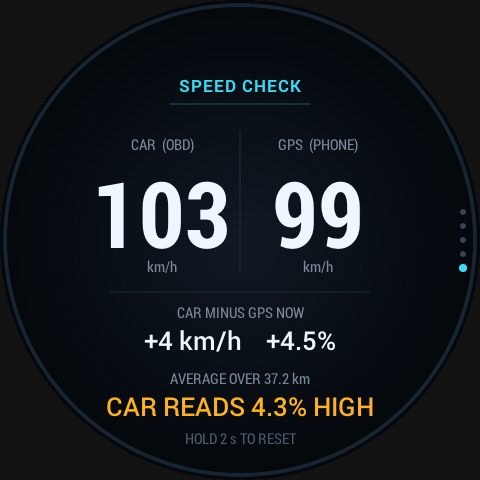
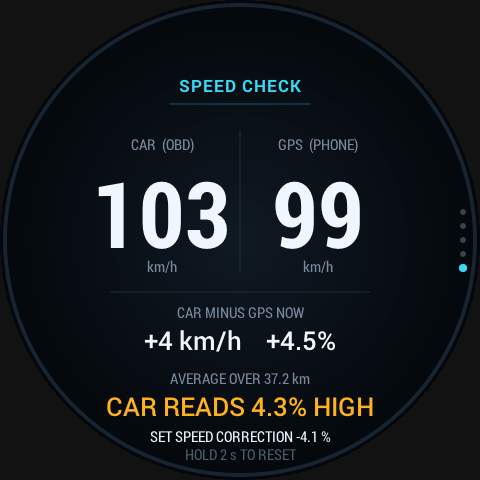
Add a car speed correction, set from the phone app
The car's OBD speed read 8 % off GPS (tyre size / speedometer error).
speed_correction (%, -20..20) multiplies it everywhere it is used: speed
screen, trip, max, fuel use per 100 km and the car side of the speed check.
The speed check keeps averaging the uncorrected speed, so it can show the
exact value to enter ("SET SPEED CORRECTION +8.7 %") whatever is set now.
The app's Device Settings get a Car Speed field for it.

Changed region(s): [[0.3125, 0.875, 0.6875, 0.9688]]

diff --git a/ios/InclinoLink/DeviceSettingsView.swift b/ios/InclinoLink/DeviceSettingsView.swift
@@ -113,6 +113,10 @@ private struct SettingsForm: View {
                 }
             }
 
+            if config.has(Key.speedCorrection) {
+                SpeedCorrectionSection(percent: config.number(Key.speedCorrection) ?? 0)
+            }
+
             if config.has(Key.log) {
                 DriveLogSection(enabled: bool(Key.log), interval: number(Key.logInterval, 1))
             }
@@ -293,6 +297,59 @@ private struct SensorSection: View {
         let sign = axis.hasPrefix("-") ? "−" : "+"
         let name = axis.dropFirst().uppercased()
         return axis == "+x" ? "\(sign)\(name) (board arrow)" : "\(sign)\(name)"
+    }
+}
+
+// MARK: - Speed correction
+
+/// Car (OBD) speed correction in %, typed in: the speed check screen on the device shows the value
+/// to enter ("SET SPEED CORRECTION +8.7 %").
+private struct SpeedCorrectionSection: View {
+    @EnvironmentObject private var link: LinkManager
+    let percent: Double
+
+    @State private var draft = ""
+    @FocusState private var editing: Bool
+    static let range = -20.0...20.0
+
+    var body: some View {
+        Section {
+            LabeledContent {
+                HStack(spacing: 4) {
+                    TextField("0", text: $draft)
+                        .multilineTextAlignment(.trailing)
+                        .keyboardType(.numbersAndPunctuation)   // has the minus sign, unlike the decimal pad
+                        .submitLabel(.done)
+                        .focused($editing)
+                        .onSubmit(commit)
+                        .monospacedDigit()
+                    Text("%").foregroundStyle(.secondary)
+                }
+            } label: {
+                Label("Speed Correction", systemImage: "speedometer")
+            }
+        } header: {
+            Text("Car Speed")
+        } footer: {
+            Text("Corrects the speed read from the car (wrong tyre size, speedometer error): +8 % makes it 8 % higher. Drive a few km above 20 km/h with the phone connected, then enter the value the inclinometer's speed check screen suggests.")
+        }
+        .onAppear { draft = Self.text(percent) }
+        .onChange(of: percent) { _, new in if !editing { draft = Self.text(new) } }
+        .onChange(of: editing) { _, isEditing in if !isEditing { commit() } }
+    }
+
+    private static func text(_ v: Double) -> String { v == 0 ? "" : String(format: "%+.1f", v) }
+
+    private func commit() {
+        // accept "8.7", "+8,7", "-3" (comma or point, whatever the keyboard gave)
+        let t = draft.trimmingCharacters(in: .whitespaces).replacingOccurrences(of: ",", with: ".")
+        guard let v = t.isEmpty ? 0 : Double(t.replacingOccurrences(of: "+", with: "")) else {
+            draft = Self.text(percent)   // not a number: show the device's value again
+            return
+        }
+        let clamped = (min(max(v, Self.range.lowerBound), Self.range.upperBound) * 10).rounded() / 10
+        draft = Self.text(clamped)
+        if clamped != percent { link.setConfig(DeviceConfig.Key.speedCorrection, DeviceConfig.format(clamped)) }
     }
 }
 

diff --git a/ios/InclinoLink/DeviceConfig.swift b/ios/InclinoLink/DeviceConfig.swift
@@ -45,6 +45,7 @@ struct DeviceConfig: Equatable {
         static let log = "log", logInterval = "log_interval"
         static let obdName = "obd_name", obdProbe = "obd_probe"
         static let remoteForward = "remote_forward", redline = "redline"
+        static let speedCorrection = "speed_correction"
     }
 
     /// Value text the firmware parses (atof): whole numbers without a decimal point.

diff --git a/src/main.cpp b/src/main.cpp
@@ -223,9 +223,11 @@ static void sensorTask(void*) {
       if (obdSpeed) sh.nav = NAV_OBD;
       else if (!blelink::connected()) sh.nav = NAV_NO_PHONE;
       else sh.nav = fresh && f.speedValid ? NAV_LIVE : NAV_NO_FIX;
+      // the car's speed, corrected (speedometer / tyre size error, measured on the speed check screen)
+      const float carKmh = od.speedKmh * (1.f + cfg.speedCorrPct * 0.01f);
       if (sh.nav == NAV_OBD) {
-        // the car's own speed: whole km/h, no GPS jitter, works in tunnels
-        float kmh = od.speedKmh;
+        // the car's own speed: no GPS jitter, works in tunnels
+        float kmh = carKmh;
         sh.speedKmh = kmh;
         sh.tripKm += kmh * navDt / 3600.f;
         if (kmh > sh.maxKmh) sh.maxKmh = kmh;
@@ -242,11 +244,12 @@ static void sensorTask(void*) {
       // speed comparison (car vs GPS)
       {
         bool gpsOk = blelink::connected() && fresh && f.speedValid;
-        sh.obdKmh = obdSpeed ? od.speedKmh : -1;
+        sh.obdKmh = obdSpeed ? carKmh : -1;
         sh.gpsKmh = gpsOk ? (f.speedMs * 3.6f < TRIP_MIN_KMH ? 0 : f.speedMs * 3.6f) : -1;
         bool accurate = f.speedAccMs >= 0 && f.speedAccMs * 3.6f < MAX_SPEED_ACC_KMH;
         if (obdSpeed && gpsOk && accurate && od.speedKmh >= CMP_MIN_KMH) {
-          // distances, not instant ratios: GPS lags ~1 s, which averages out over a drive
+          // distances, not instant ratios: GPS lags ~1 s, which averages out over a drive.
+          // Uncorrected, so the suggested correction doesn't depend on the one set now.
           sh.cmpObdKm += od.speedKmh * navDt / 3600.f;
           sh.cmpGpsKm += f.speedMs * 3.6f * navDt / 3600.f;
         }
@@ -269,13 +272,13 @@ static void sensorTask(void*) {
           float x = od.rpm > 0 ? od.mafGs * 3600.f / (FUEL_AFR * FUEL_G_PER_L) : 0;
           lph = lph < 0 ? x : lph + (x - lph) * fminf(1.f, navDt / FUEL_SMOOTH_S);
           sh.fuelL += x * navDt / 3600.f;
-          if (obdSpeed) sh.fuelKm += od.speedKmh * navDt / 3600.f;
+          if (obdSpeed) sh.fuelKm += carKmh * navDt / 3600.f;
         } else {
           lph = -1;
         }
         sh.fuelLph = lph >= 0 ? lph : -999;
         static float kmhS = 0;   // smoothed like the fuel flow, so the ratio is steady
-        kmhS = obdSpeed ? kmhS + (od.speedKmh - kmhS) * fminf(1.f, navDt / FUEL_SMOOTH_S) : 0;
+        kmhS = obdSpeed ? kmhS + (carKmh - kmhS) * fminf(1.f, navDt / FUEL_SMOOTH_S) : 0;
         sh.fuelL100 = lph >= 0 && obdSpeed && kmhS >= 5 ? lph / kmhS * 100.f : -999;
       }
 
@@ -428,7 +431,13 @@ static void renderTask(void*) {
     st.avgL100 = sh.fuelKm >= 1.f ? sh.fuelL / sh.fuelKm * 100.f : -999;
     st.obdKmh = sh.obdKmh; st.gpsKmh = sh.gpsKmh;
     st.cmpKm = sh.cmpGpsKm;
-    st.cmpPct = sh.cmpGpsKm >= 0.5f ? (sh.cmpObdKm / sh.cmpGpsKm - 1.f) * 100.f : -999;
+    {
+      const float corr = 1.f + cfg.speedCorrPct * 0.01f;
+      const bool enough = sh.cmpGpsKm >= 0.5f && sh.cmpObdKm > 0.1f;
+      st.cmpPct = enough ? (sh.cmpObdKm * corr / sh.cmpGpsKm - 1.f) * 100.f : -999;   // with the correction
+      st.cmpSuggestPct = enough ? (sh.cmpGpsKm / sh.cmpObdKm - 1.f) * 100.f : -999;
+      st.speedCorrPct = cfg.speedCorrPct;
+    }
     // heading: ease along the shortest way round, so the compass ring turns smoothly
     if (sh.courseDeg < 0) st.courseDeg = -1;
     else if (st.courseDeg < 0) st.courseDeg = sh.courseDeg;

diff --git a/src/settings.cpp b/src/settings.cpp
@@ -3,6 +3,7 @@
 #include <stdio.h>
 #include <stdlib.h>
 #include <string.h>
+#include <math.h>
 
 Settings cfg;
 
@@ -64,6 +65,7 @@ static void applyOne(const char* k, const char* v, void* p) {
     if (ax == 'x' || ax == 'y' || ax == 'z') { s.remoteForward[0] = sg; s.remoteForward[1] = ax; s.remoteForward[2] = 0; }
   } else if (!strcmp(k, "redline")) s.redlineRpm = clampf(f, 2000, ENGINE_GAUGE_RPM);
   else if (!strcmp(k, "obd_probe")) s.obdProbe = f != 0;
+  else if (!strcmp(k, "speed_correction")) s.speedCorrPct = clampf(roundf(f * 10) / 10, -20, 20);
   else {
     if (c.unknown) c.unknown(k);
     return;
@@ -102,10 +104,11 @@ bool update(const char* text) {
 size_t formatCompact(char* out, size_t size) {
   int n = snprintf(out, size,
       "roll_warn=%g\nroll_danger=%g\npitch_warn=%g\npitch_danger=%g\nbuzzer=%d\nbacklight=%u\n"
-      "log=%d\nlog_interval=%g\nobd_name=%s\nremote_forward=%s\nredline=%g\nobd_probe=%d\n",
+      "log=%d\nlog_interval=%g\nobd_name=%s\nremote_forward=%s\nredline=%g\nobd_probe=%d\n"
+      "speed_correction=%g\n",
       cfg.rollWarnDeg, cfg.rollDangerDeg, cfg.pitchWarnDeg, cfg.pitchDangerDeg, cfg.buzzer ? 1 : 0,
       (unsigned)cfg.backlight, cfg.log ? 1 : 0, cfg.logIntervalS, cfg.obdName, cfg.remoteForward,
-      cfg.redlineRpm, cfg.obdProbe ? 1 : 0);
+      cfg.redlineRpm, cfg.obdProbe ? 1 : 0, cfg.speedCorrPct);
   return n < 0 ? 0 : (size_t)n < size ? (size_t)n : size - 1;
 }
 
@@ -143,10 +146,14 @@ size_t format(char* out, size_t size) {
       "\n"
       "# 1 = also read the car's maker-specific data blocks and log them to probe.txt\n"
       "# (slows the normal OBD values a little)\n"
-      "obd_probe = %d\n",
+      "obd_probe = %d\n"
+      "\n"
+      "# Car (OBD) speed correction, %%: the car's speed is multiplied by 1 + this / 100.\n"
+      "# +8 = the car shows 8 %% too little. The speed check screen suggests a value.\n"
+      "speed_correction = %g\n",
       cfg.rollWarnDeg, cfg.rollDangerDeg, cfg.pitchWarnDeg, cfg.pitchDangerDeg, cfg.buzzer ? 1 : 0,
       (unsigned)cfg.backlight, cfg.log ? 1 : 0, cfg.logIntervalS, cfg.obdName, cfg.remoteForward,
-      cfg.redlineRpm, cfg.obdProbe ? 1 : 0);
+      cfg.redlineRpm, cfg.obdProbe ? 1 : 0, cfg.speedCorrPct);
   return n < 0 ? 0 : (size_t)n;
 }
 

diff --git a/src/ui.cpp b/src/ui.cpp
@@ -630,7 +630,9 @@ static void renderCompare(const UiState& s) {
   gfx.line(110, 292, 370, 292, 1.2f, Paint(FAINT));
 
   const float col[2] = {162, 318};
-  const char* label[2] = {"CAR  (OBD)", "GPS  (PHONE)"};
+  char carLabel[28] = "CAR  (OBD)";
+  if (fabsf(s.speedCorrPct) >= 0.05f) snprintf(carLabel, sizeof carLabel, "CAR  (OBD %+.1f%%)", s.speedCorrPct);
+  const char* label[2] = {carLabel, "GPS  (PHONE)"};
   const float v[2] = {s.obdKmh, s.gpsKmh};
   for (int i = 0; i < 2; i++) {
     gfx.text(font_tiny, label[i], col[i], 150, DIM, 0);
@@ -662,7 +664,13 @@ static void renderCompare(const UiState& s) {
     if (fabsf(p) < 0.5f) snprintf(b, sizeof b, "CAR READS RIGHT");
     else snprintf(b, sizeof b, "CAR READS %.1f%% %s", fabsf(p), p > 0 ? "HIGH" : "LOW");
     gfx.text(font_med, b, CX, 416, fabsf(p) < 2.f ? GREEN : AMBER, 0);
-    gfx.text(font_tiny, "HOLD 2 s TO RESET", CX, 444, 0x4E5D6B, 0);
+    if (fabsf(p) >= 0.5f && s.cmpSuggestPct > -900) {   // the value to enter in the phone app
+      snprintf(b, sizeof b, "SET SPEED CORRECTION %+.1f %%", s.cmpSuggestPct);
+      gfx.text(font_tiny, b, CX, 442, TXT, 0);
+      gfx.text(font_tiny, "HOLD 2 s TO RESET", CX, 460, 0x4E5D6B, 0);
+    } else {
+      gfx.text(font_tiny, "HOLD 2 s TO RESET", CX, 444, 0x4E5D6B, 0);
+    }
   } else {
     gfx.text(font_tiny, "AVERAGE", CX, 384, DIM, 0);
     snprintf(b, sizeof b, "needs both above %d km/h", (int)CMP_MIN_KMH);

diff --git a/src/ui.h b/src/ui.h
@@ -40,7 +40,9 @@ struct UiState {
   // speed comparison screen; < 0 = no fresh data
   float obdKmh = -1, gpsKmh = -1;
   float cmpKm = 0;                      // distance compared so far (both sources live, moving)
-  float cmpPct = -999;                  // car vs GPS over that distance, % (+ = car reads high)
+  float cmpPct = -999;                  // corrected car vs GPS over that distance, % (+ = car reads high)
+  float cmpSuggestPct = -999;           // speed_correction that would make it 0
+  float speedCorrPct = 0;               // speed_correction now
   // boot splash (when splash1 != nullptr)
   const char* splash1 = nullptr;
   const char* splash2 = nullptr;

diff --git a/tools/preview/preview.cpp b/tools/preview/preview.cpp
@@ -62,7 +62,7 @@ int main(int argc, char** argv) {
     {"compare",       mk(SCREEN_COMPARE, 0.f, 0.f)},
     {"compare_start", mk(SCREEN_COMPARE, 0.f, 0.f)},
   };
-  shots[16].s.obdKmh = 103; shots[16].s.gpsKmh = 98.6f; shots[16].s.cmpKm = 37.2f; shots[16].s.cmpPct = 4.3f;
+  shots[16].s.obdKmh = 103; shots[16].s.gpsKmh = 98.6f; shots[16].s.cmpKm = 37.2f; shots[16].s.cmpPct = 4.3f; shots[16].s.cmpSuggestPct = -4.1f;
   shots[17].s.obdKmh = 12; shots[17].s.gpsKmh = -1;
   {   // cruising, warm
     UiState& e = shots[12].s;

diff --git a/src/settings.h b/src/settings.h
@@ -18,6 +18,7 @@ struct Settings {
   char remoteForward[3] = REMOTE_FORWARD;   // its axis that points forward: "+x" .. "-z"
   float redlineRpm = ENGINE_REDLINE_RPM;    // rev gauge red zone
   bool obdProbe = OBD_PROBE;           // log Toyota mode-21 data blocks to probe.txt
+  float speedCorrPct = SPEED_CORRECTION_PCT;   // car (OBD) speed x (1 + this / 100)
 };
 extern Settings cfg;
 

diff --git a/src/config.h b/src/config.h
@@ -38,6 +38,7 @@
 
 // Speed comparison screen: car (OBD) vs GPS
 #define CMP_MIN_KMH          20.f    // average only above this (GPS speed is noisy when slow)
+#define SPEED_CORRECTION_PCT 0.f     // car (OBD) speed correction, % (config.txt: speed_correction)
 
 // Engine screen
 #define ENGINE_REDLINE_RPM   5000    // red zone of the rev gauge (config.txt: redline)

diff --git a/README.md b/README.md
@@ -64,6 +64,10 @@ Open `ios/InclinoLink.xcodeproj` in Xcode, pick your team under *Signing & Capab
 - The **speed check** screen shows the car's (OBD) and the phone's GPS speed side by side, the
   difference now, and the average difference over the distance driven with both above 20 km/h
   (GPS lags about a second, which averages out). That is the speedometer / tyre-size error.
+  It also shows the **speed correction** that would cancel it ("SET SPEED CORRECTION +8.7 %"):
+  enter that in the app (*Device Settings → Car Speed*, or `speed_correction` in config.txt). The
+  car's speed is then multiplied by 1 + correction / 100 everywhere: speed screen, trip, max, fuel
+  use, and the car side of the speed check (its label shows the correction in use).
 - GPS runs only while the inclinometer is connected. Set Location to **Always** so GPS can start
   when the device connects while the phone is locked.
 - iOS doesn't reopen a swiped-away app for Bluetooth. The in-app option *Restart after swipe-away*
@@ -74,7 +78,8 @@ Open `ios/InclinoLink.xcodeproj` in Xcode, pick your team under *Signing & Capab
 
 *InclinoLink → Device Settings* (while the inclinometer is connected) changes the `config.txt`
 settings live: warning/danger angles, alarm sound, brightness (the screen follows the slider), rev
-gauge red zone, drive log on/off + interval, remote IMU forward axis, OBD adapter name and probe.
+gauge red zone, car speed correction, drive log on/off + interval, remote IMU forward axis, OBD adapter
+name and probe.
 Changes apply at once and are written to `config.txt` a second after the last one (without an SD
 card they last until power-off). It also has **Set level**, **Reset peaks** and **Reset trip**.
 Only the OBD probe needs a restart; a new forward axis needs *Set level* again.
@@ -111,7 +116,7 @@ computer and restart. The card also stores:
 
 | File | Content |
 |---|---|
-| `/incl/config.txt` | warning/danger angles, buzzer, backlight, drive log on/off + interval, OBD adapter name, remote IMU forward axis, rev gauge red zone, OBD probe on/off |
+| `/incl/config.txt` | warning/danger angles, buzzer, backlight, drive log on/off + interval, OBD adapter name, remote IMU forward axis, rev gauge red zone, car speed correction, OBD probe on/off |
 | `/incl/rlevel_a.txt`, `rlevel_b.txt` | level reference (of the remote IMU) |
 | `/incl/state_a.txt`, `state_b.txt` | peak angles, max speed, trip, fuel used for the average, drive log counter |
 | `/incl/logs/NNNNN.csv` | drive log, one file per power-up: angles, speed + source, heading, OBD values |
